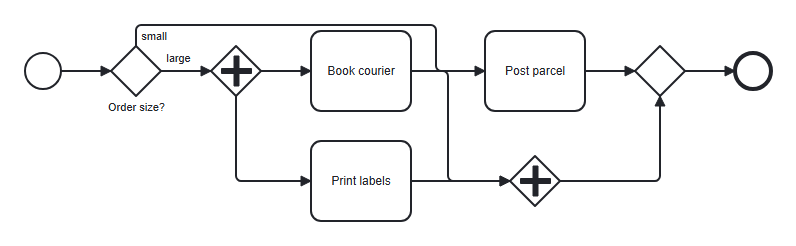
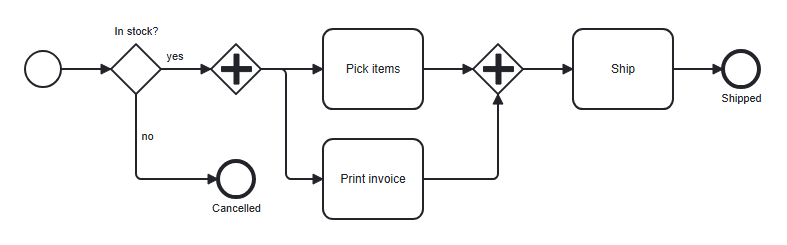
Keep the nested gateway examples free of overlapping flows
In both pictures, two flows shared a segment, so one step appeared to lead
into another. Symmetric branches give each flow its own row.

Changed region(s): [[0.0305, 0.0857, 0.8539, 0.9143], [0.8539, 0.2, 0.9759, 0.4286], [0.1525, 0.5429, 0.2135, 0.5714]]

diff --git a/docs/notation.md b/docs/notation.md
@@ -255,13 +255,14 @@ Gateways can be nested. Each one merges its own open branches first (§7.1):
 
 ```bpmnt
 start
-xor Order size?
-  small: task Post parcel
-  large:
+xor In stock?
+  yes:
     and
-      - task Book courier
-      - task Print labels
-end
+      - task Pick items
+      - task Print invoice
+    task Ship
+  no: end Cancelled
+end Shipped
 ```
 
 ![Nested gateways](images/notation-gateways.png)
@@ -871,7 +872,7 @@ end
 
 The `and` row is shown above, and the `complex` row in §7.5.
 
-**Nested splits.** Joins are built from the innermost split outwards. An `and`
+**Nested splits.** Joins are built from the innermost split outwards. Each `and`
 inside an `xor` branch gets its own parallel join first, and that join is then one
 open end of the `xor`:
 
@@ -884,7 +885,10 @@ xor Express?
     and
       - task Pick items
       - task Book courier
-  no: task Post parcel
+  no:
+    and
+      - task Print label
+      - task Book post
 task Send confirmation
 end
 ```
